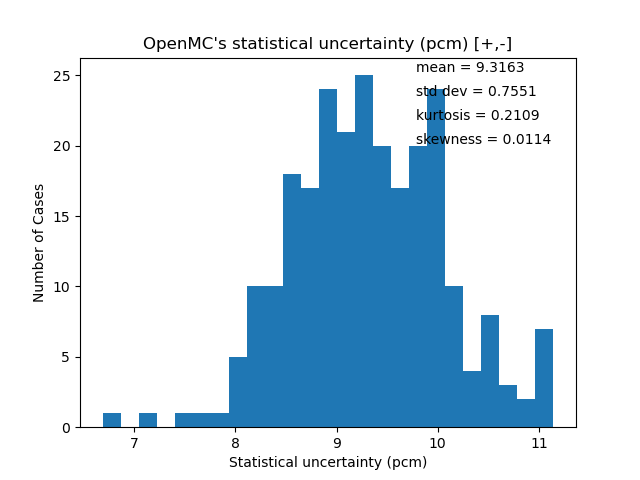
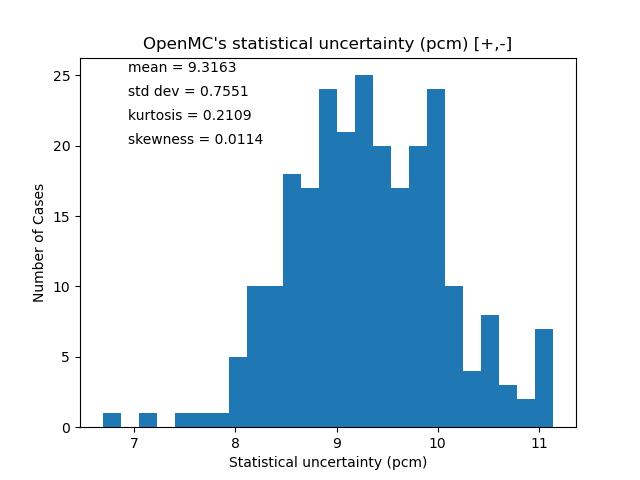
readme

diff --git a/Openmc_godiva/Openmc_delta_keff.py b/Openmc_godiva/Openmc_delta_keff.py
@@ -53,10 +53,10 @@ plt.hist(uncert_new, bins=25, density=False)
 plt.title(f"OpenMC's statistical uncertainty (pcm) [+,-]")
 plt.xlabel('Statistical uncertainty (pcm)')
 plt.ylabel('Number of Cases')
-plt.figtext(.65, .85, f"mean = {round(mean2,4)}")
-plt.figtext(.65, .8, f"std dev = {round(std_dev2,4)}")
-plt.figtext(.65, .75, f"kurtosis = {round(kurt2,4)}")
-plt.figtext(.65, .7, f"skewness = {round(skewness2,4)}")
+plt.figtext(.20, .85, f"mean = {round(mean2,4)}")
+plt.figtext(.20, .8, f"std dev = {round(std_dev2,4)}")
+plt.figtext(.20, .75, f"kurtosis = {round(kurt2,4)}")
+plt.figtext(.20, .7, f"skewness = {round(skewness2,4)}")
 plt.savefig('Openmc_stat_uncert.png')
 plt.clf()
 

diff --git a/README.md b/README.md
@@ -10,11 +10,15 @@ the same library the script will still be able to produce a result when they are
 # Installations:
 * If you want to use the files using ENDFtk for ENDF file processing, see here for an installation tutorial: https://github.com/njoy/ENDFtk/blob/master/README.md
 * The scripts found in this repository have an requirement of the PyNE module which installation instructions can be found on the pyne website: https://pyne.io/
+* If you want to run total Monte Carlo simulations using the scripts in the repository you need to install OpenMC.
+Installation tutorial can be found ħere: https://docs.openmc.org/en/stable/quickinstall.html
 
 # Scripts:
 ## bin_sol.py:
-The python script used for the calculation of the error propagation is "bin_sol.py". To run the script properly a suitable collection of ace randomfiles and
-sensitivity vectors corresponding to the desired reaction is required.
+The python script used for the calculation of the error propagation is "bin_sol.py". To run the script properly a suitable collection of ace randomfiles and sensitivity vectors corresponding to the desired reaction is required.
+The sensitivity vectors need to be .csv files, with the left column being the energies and the right column being
+the sensitivity values. Sensitivity vectors can for example be fetched from DICE: https://www.oecd-nea.org/jcms/pl_20293/database-for-icsbep-dice. The sensitivity vectors will need to be manually copied into a .csv file if fetched from DICE. ACE files can for example be processed with NJOY. 
+
 1. The script when run will open a window and prompt the user to select a directory where
 the utilized randomfiles are.
 2. It will then propose a list of reactions, whereas the last option is to manually add a reaction. The so called "other" option
